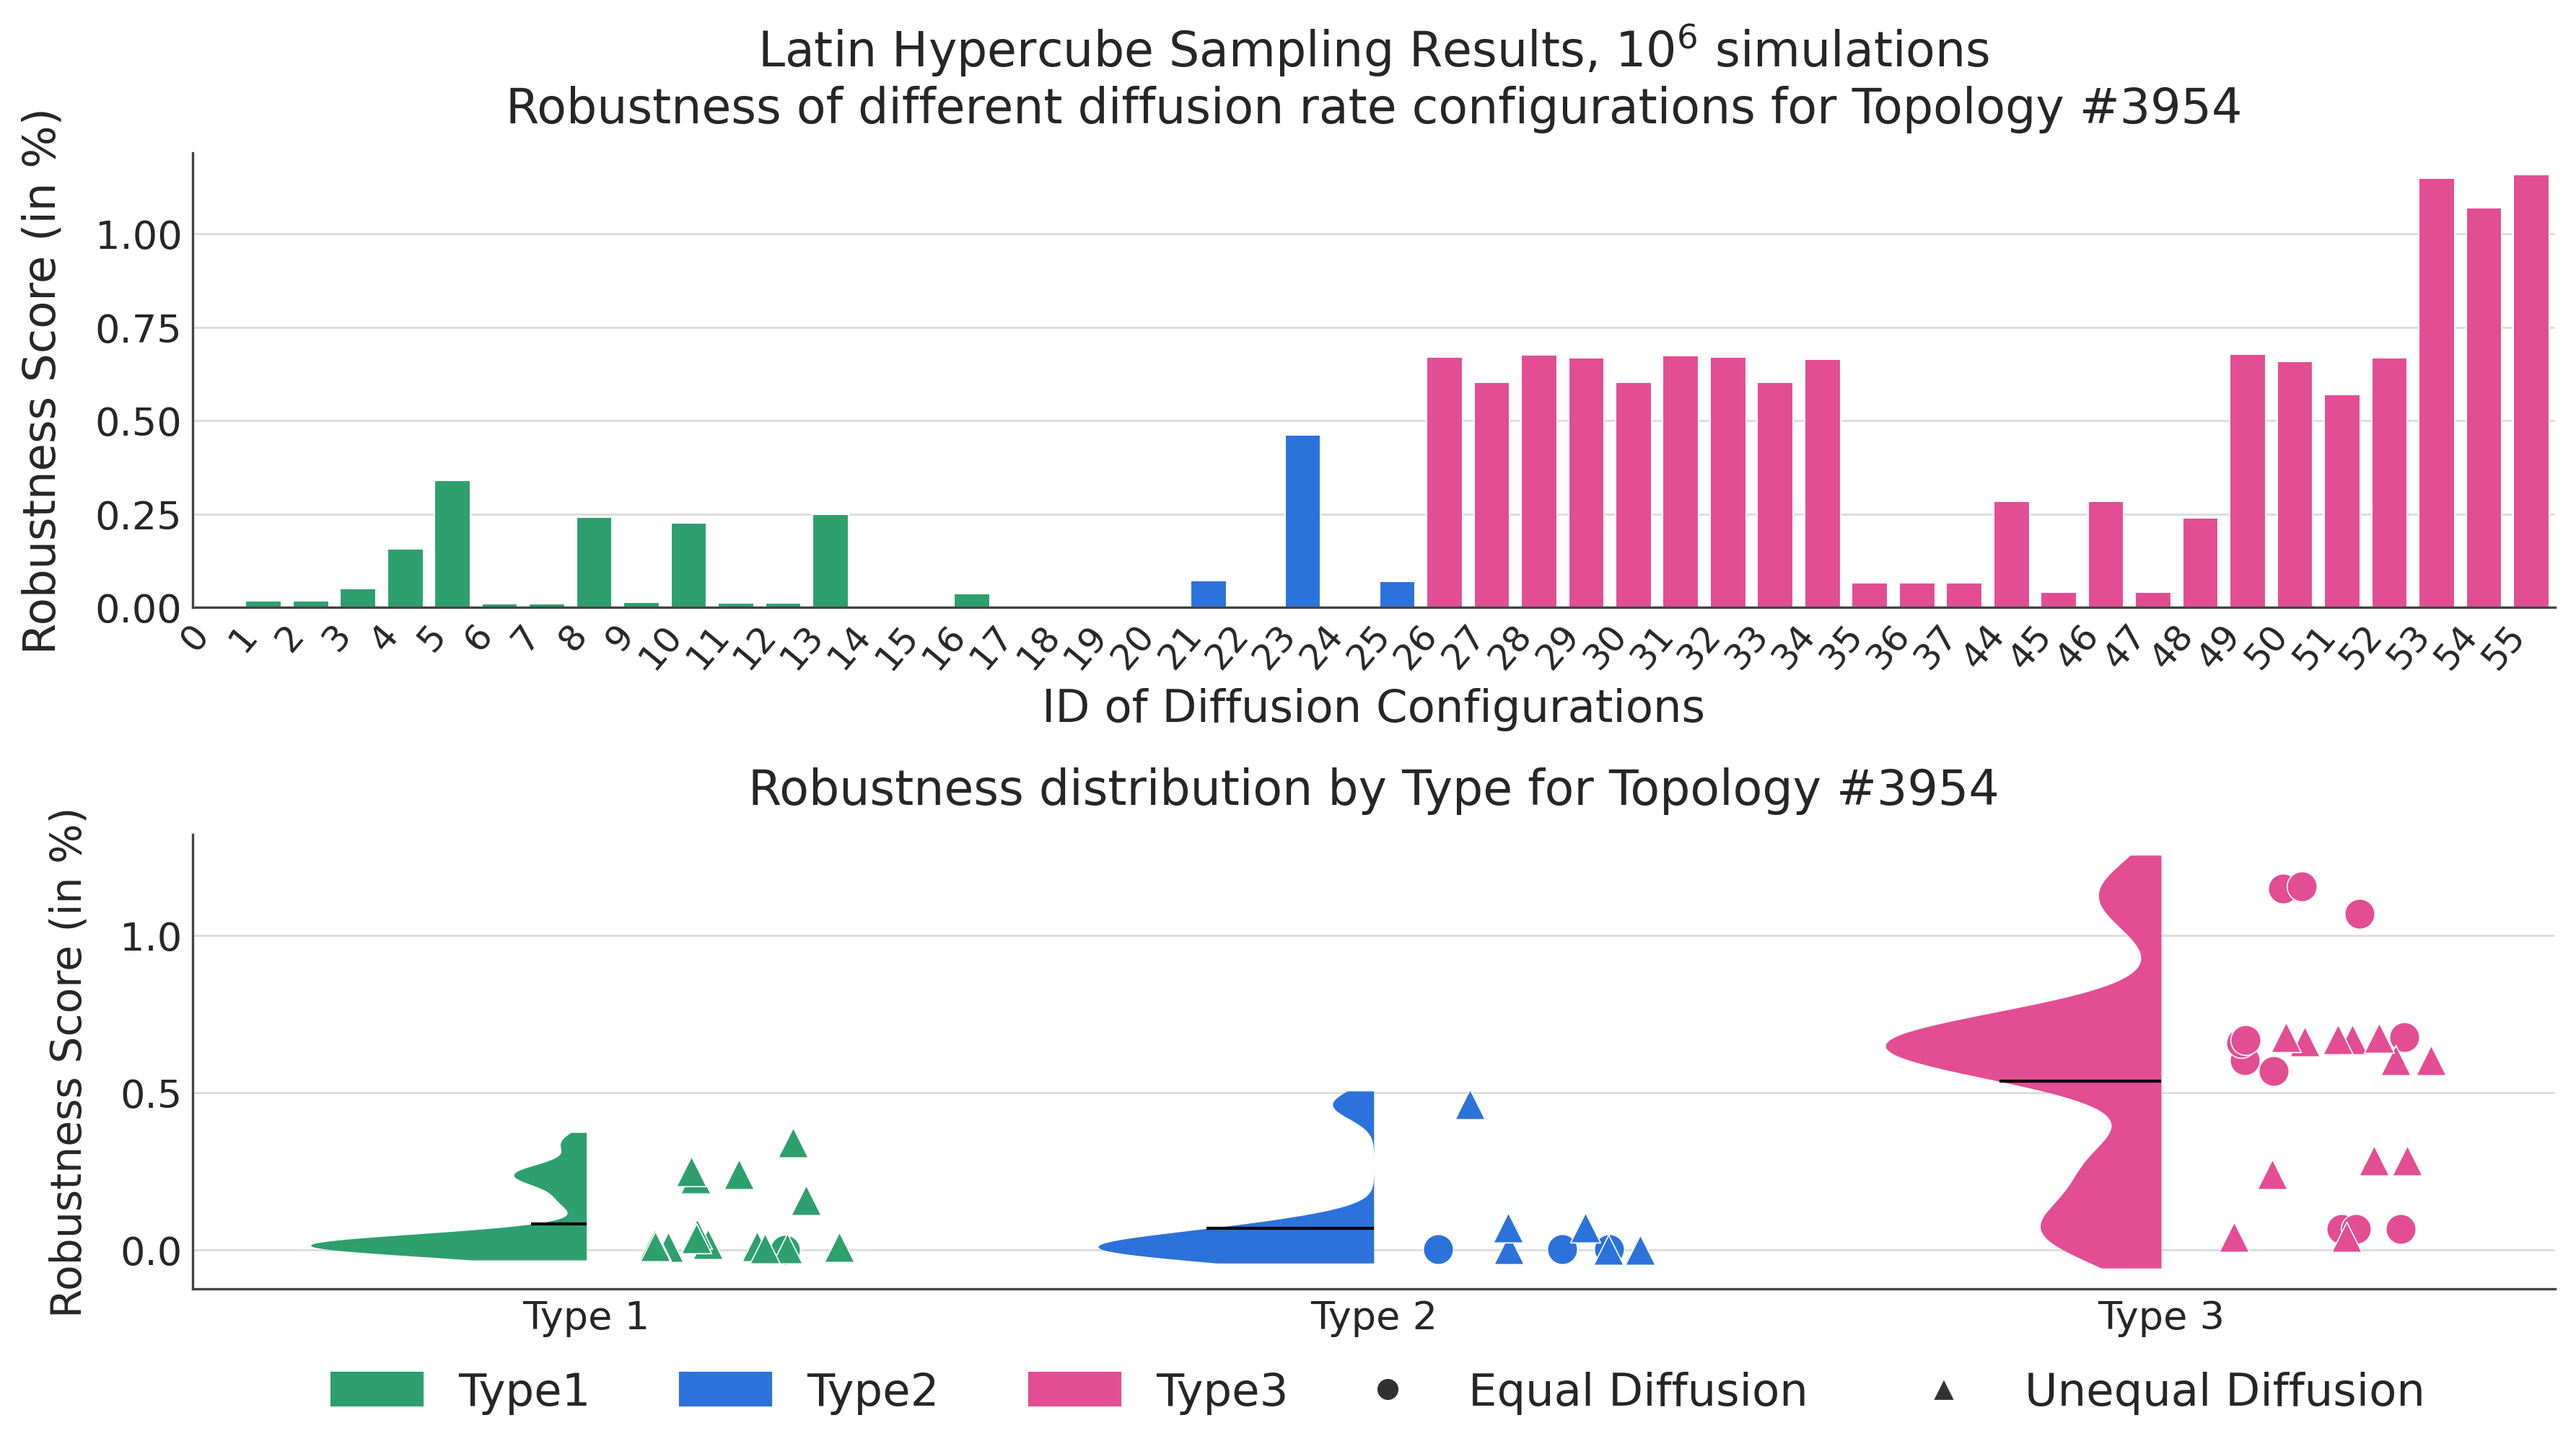
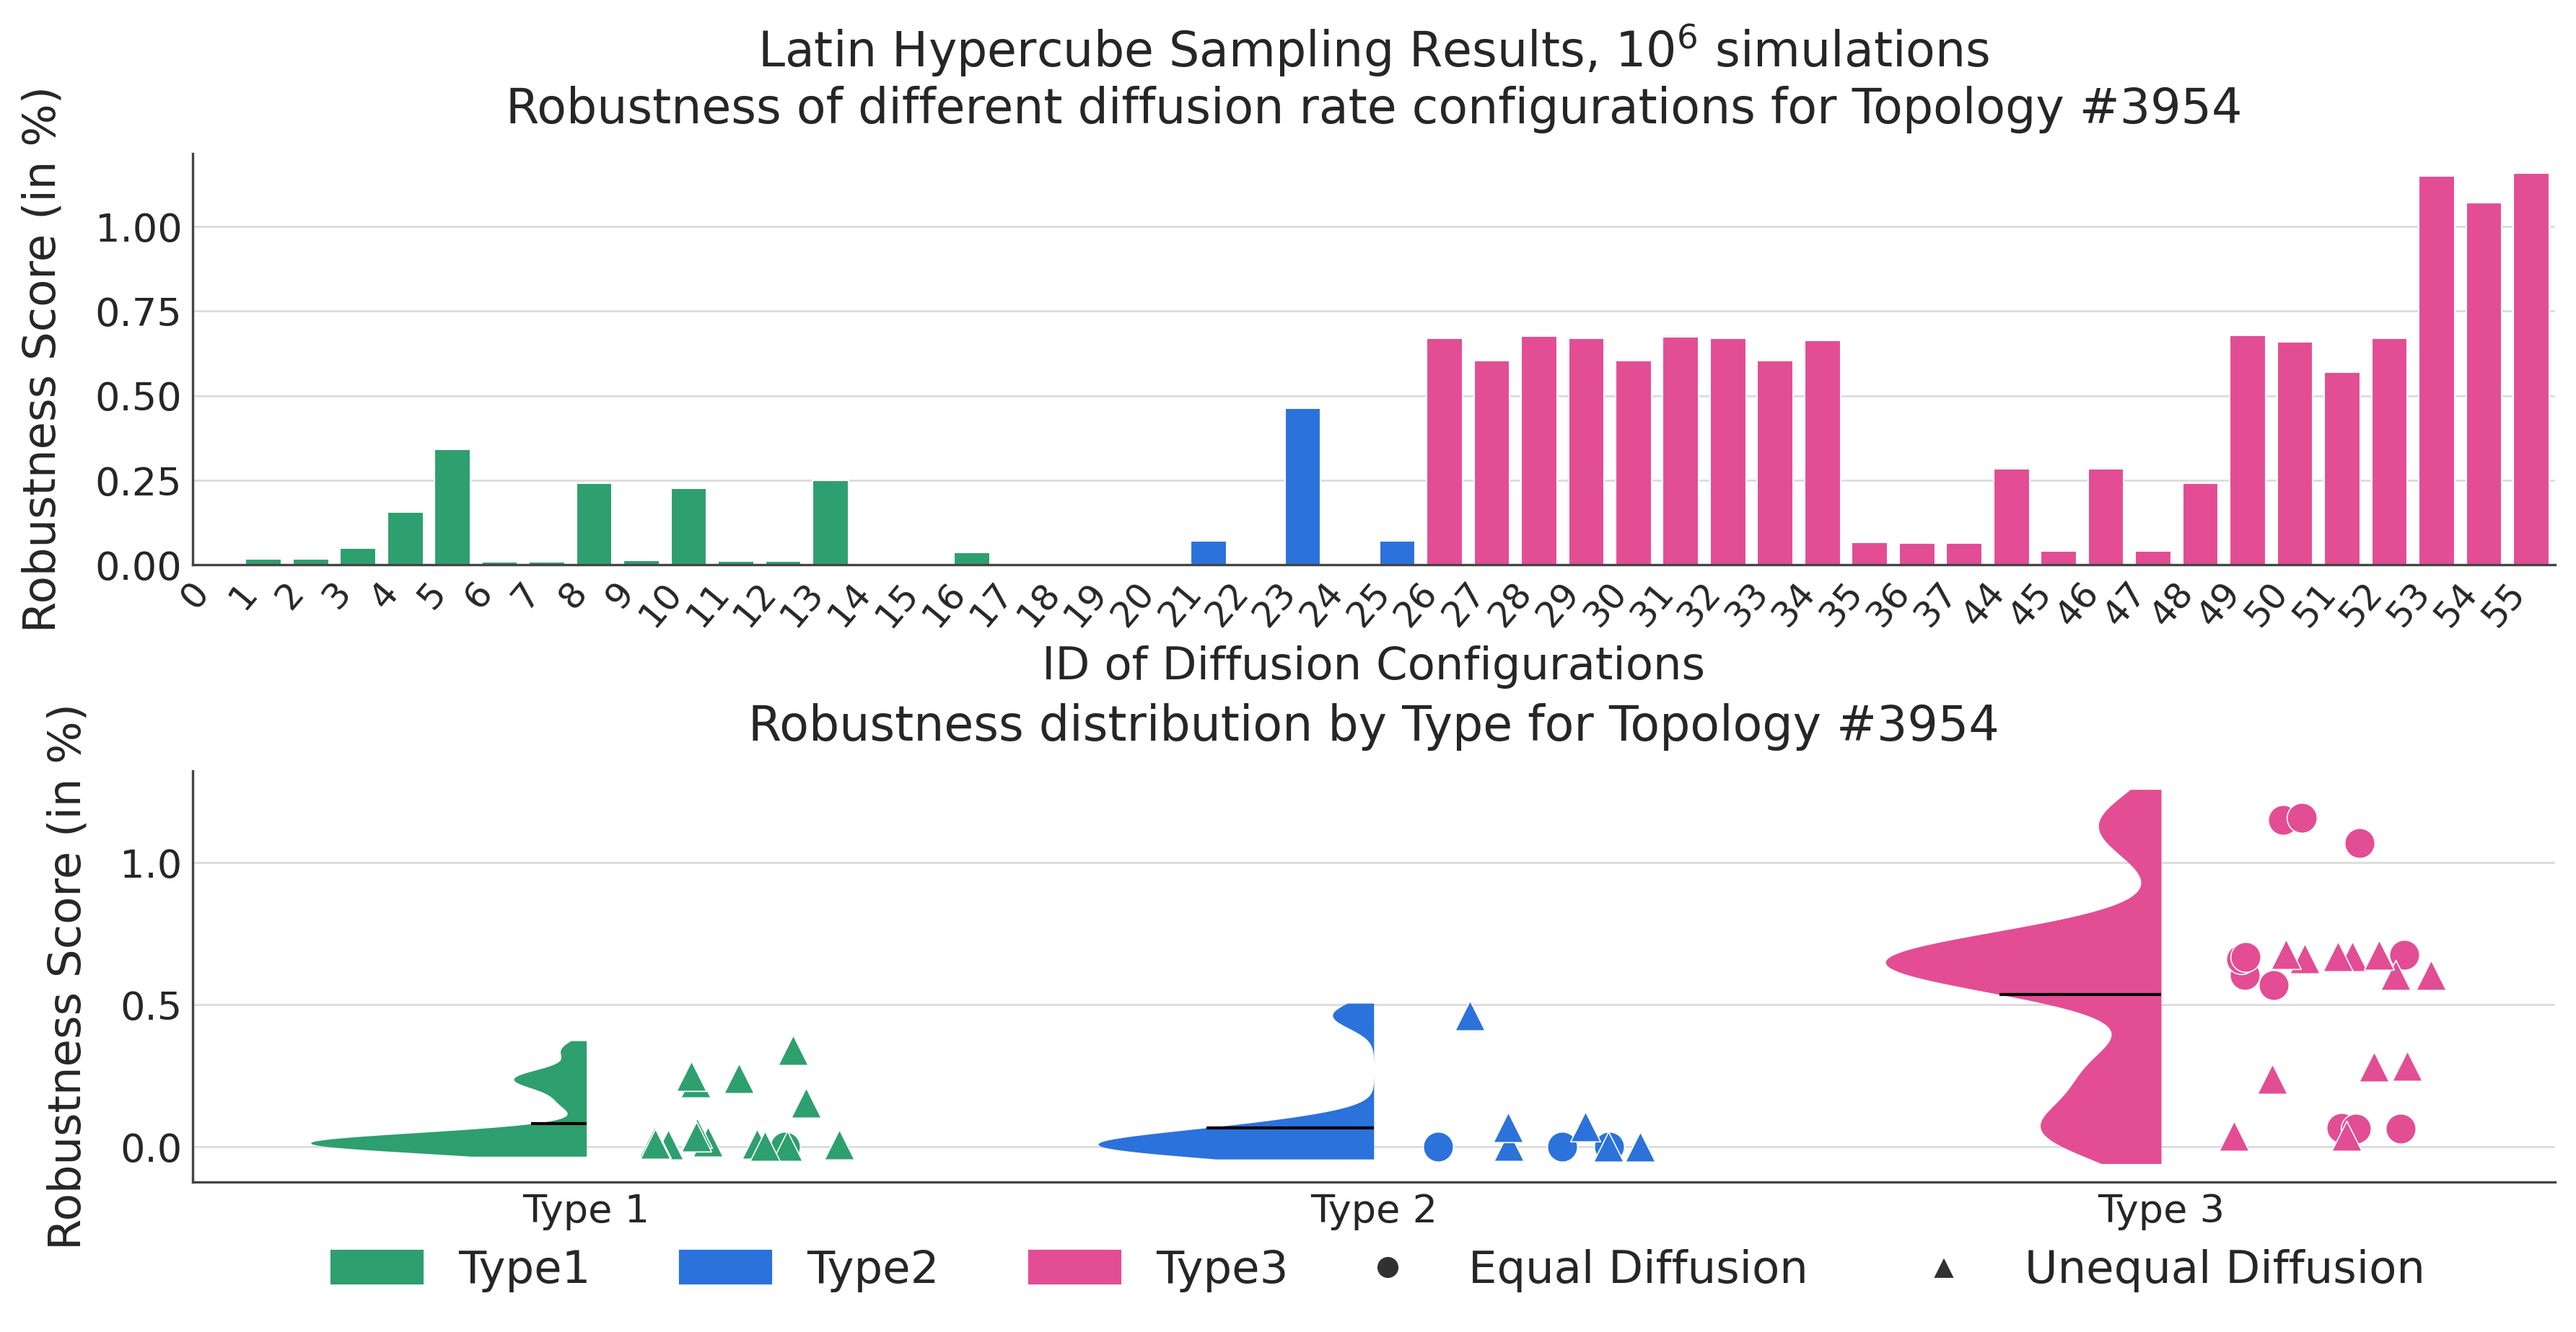
hhhhh

diff --git a/TopologyRanking/Topology3954/lhs_plots_results_3954.py b/TopologyRanking/Topology3954/lhs_plots_results_3954.py
@@ -42,13 +42,6 @@ def save(fig, name):
     plt.close(fig)
     print(f"Saved to plots/{name}.png")
 
-
-# def load_data():
-#     df = pd.read_csv(CSV)
-#     df["topology"]    = df["config_name"].str.extract(r"FINAL_LHS_3954_([A-Z]+)_")
-#     df["turing_type"] = df["config_name"].str.extract(r"(Type[123])")
-#     return df
-
 def load_data():
     df = pd.read_csv(CSV)
     df = df[~df["config_name"].str.contains('Lab', na=False)]
@@ -97,7 +90,7 @@ def fig4_diego_vs_shaberi(df):
 def fig_combined_overview_and_raincloud(df):
     df = df.copy()
     #fig, (ax1, ax2) = plt.subplots(2, 1, figsize=(13,8.5), gridspec_kw={"height_ratios": [1, 1]})
-    fig, (ax1, ax2) = plt.subplots(2, 1, figsize=(12.4,6.4))
+    fig, (ax1, ax2) = plt.subplots(2, 1, figsize=(12.4,5.8))
 
     # PANEL 1: OVERVIEW BAR CHART (ax1)
     colors = df["turing_type"].map(TYPE_COLORS).fillna("#aaaaaa")
@@ -154,7 +147,7 @@ def fig_combined_overview_and_raincloud(df):
 
     ax2.set_xticks(range(len(types)))
     ax2.set_xticklabels(labels, fontsize=13)
-    ax2.set_ylabel("Robustness Score (in %)", fontsize=14, labelpad=10)
+    ax2.set_ylabel("Robustness Score (in %)", fontsize=15, labelpad=10)
     ax2.tick_params(axis='y', labelsize=13)
     ax2.set_title("Robustness distribution by Type for Topology #3954",fontsize=16,loc="center",pad=10,)
     ax2.xaxis.grid(False)
@@ -179,165 +172,3 @@ def fig_combined_overview_and_raincloud(df):
 df = load_data()
 # fig4_diego_vs_shaberi(df)
 fig_combined_overview_and_raincloud(df) 
-
-
-
-
-
-
-##################################### FIGURE 1: Overview bar chart #####################################
-
-# def fig1_overview(df):
-#     fig, ax = plt.subplots(figsize=(14, 6))
-#     #colors = df["turing_type_I"].map(TYPE_COLORS).fillna("#aaaaaa")
-#     ax.bar(
-#         range(len(df)),
-#         df["rob_shaberi_type_I"], # rob_shaberi_total
-#         #color=colors,
-#         edgecolor="white",
-#         linewidth=0.5,
-#         width=0.75,
-#     )
-#     # x-axis labels: strip prefix and "Type" variations
-#     ax.set_xticks(range(len(df)))
-#     ax.set_xticklabels(
-#         # The | means OR, and \d* means match zero or more digits (like 1, 2, 3)
-#         df["config_name"].str.replace(r"FINAL_LHS_3954_|Type\d*_", "", regex=True),
-#         rotation=55,
-#         ha="right",
-#         fontsize=8,
-#     )
-
-#     ax.set_ylabel("Robustness Score (in %)", fontsize=11)
-#     ax.set_title(
-#         "Robustness of Topologies for #3954\n(Latin Hypercube Sampling, 1 million simulations)",
-#         fontsize=12, loc="left", pad=10,
-#     )
-#     ax.spines[["top", "right"]].set_visible(False)
-#     # fix 1 – remove extra left padding
-#     ax.set_xlim(-0.5, len(df) - 0.5)
-#     # fix 2 – horizontal grid lines only
-#     ax.xaxis.grid(False)
-#     ax.yaxis.grid(True)
-
-#     # legend
-#     handles = [mpatches.Patch(color=c, label=t) for t, c in TYPE_COLORS.items()]
-#     #ax.legend(handles=handles, title="Turing Type", frameon=False)
-#     ax.legend(handles=handles, title="Turing Type", frameon=False, loc="upper center", bbox_to_anchor=(0.5, -0.4), ncol=3)
-
-#     fig.tight_layout()
-#     save(fig, "testttt_3954_lhs_fig1_overview_bar_detail")
-
-
-
-##################################### FIGURE 2: Scatter of Type 1 to Type 3 #####################################
-
-# def fig2_dotplot(df):
-#     random.seed(42)
-#     fig, ax = plt.subplots(figsize=(7, 4))
-#     types = ["Type1", "Type2", "Type3"]
-#     for i, t in enumerate(types):
-#         subset = df[df["turing_type"] == t]
-#         for _, row in subset.iterrows():
-#             marker = "^" if "Unequal" in row["config_name"] else "o"
-#             jitter = i + random.uniform(-0.2, 0.2)
-#             ax.scatter(
-#                 jitter,
-#                 row["rob_shaberi_total"],
-#                 color=TYPE_COLORS[t],
-#                 marker=marker,
-#                 s=80,
-#                 edgecolors="white",
-#                 linewidths=0.5,
-#                 zorder=3,
-#             )
-
-#     ax.set_xticks([0, 1, 2])
-#     ax.set_xticklabels(["Type 1", "Type 2", "Type 3"], fontsize=11)
-#     ax.set_ylabel("Robustness Score (in %, Shaberi Method)", fontsize=11)
-#     ax.set_title(
-#         "Robustness Scores by Turing Type for #3954\n(Latin Hypercube Sampling, 1 million simulations)",
-#         fontsize=12, loc="left", pad=10,
-#     )
-#     ax.xaxis.grid(False)
-#     ax.set_xlim(-0.5, 2.5)
-
-#     handles = [
-#         mlines.Line2D([], [], color="#313131", marker="o", linestyle="None", markersize=7, markeredgecolor="white", label="Equal"),
-#         mlines.Line2D([], [], color="#313131", marker="^", linestyle="None", markersize=7, markeredgecolor="white", label="Unequal"),
-#     ]
-
-#     ax.legend(handles=handles, title="Diffusion", frameon=False, loc="center right", bbox_to_anchor=(1.3, 0.5), ncol=1)
-#     fig.tight_layout()
-#     save(fig, "new_3954_lhs_fig2_dotplot")
-
-
-# def fig2_raincloud(df):
-#     random.seed(42)
-#     types  = ["Type1", "Type2", "Type3"]
-#     labels = ["Type 1", "Type 2", "Type 3"]
-#     fig, ax = plt.subplots(figsize=(10, 6))
-
-#     for i, (t, label) in enumerate(zip(types, labels)):
-#         subset = df[df["turing_type"] == t]["rob_shaberi_total"].dropna().values
-
-#         if len(subset) < 2:
-#             continue
-
-#         color = TYPE_COLORS[t]
-
-#         # ── Half violin (left side) ───────────────────────────────────────────
-#         #kde    = gaussian_kde(subset, bw_method=0.4)
-#         kde    = gaussian_kde(subset, bw_method=0.3)
-#         #y_range = np.linspace(subset.min(), subset.max(), 200)
-#         y_range = np.linspace(subset.min() - subset.std()*0.2, subset.max() + subset.std()*0.2, 200)
-#         kde_vals = kde(y_range)
-#         kde_vals = kde_vals / kde_vals.max() * 0.35  # normalise width
-
-#         ax.fill_betweenx(y_range, i - kde_vals, i, color=color, alpha=1.0, linewidth=0)
-
-#         # ── Mean line ─────────────────────────────────────────────────────────
-
-#         mean_val     = subset.mean()
-#         kde_at_mean  = kde(mean_val)[0]
-#         kde_at_mean  = kde_at_mean / kde_vals.max() * 0.35  # same normalisation as the cloud
-        
-#         ax.hlines(subset.mean(), i - 0.35, i, color="white", linewidth=1.5, zorder=4)
-#         #ax.hlines(subset.mean(), i - 0.33, i, color="black", linewidth=1.5, zorder=4)
-
-#         # ── Jittered dots (right side) ────────────────────────────────────────
-#         for val in subset:
-#             jitter = i + random.uniform(0.08, 0.35)
-#             marker = "^" if any(
-#                 "Unequal" in row["config_name"]
-#                 for _, row in df[(df["turing_type"] == t) &
-#                                  (df["rob_shaberi_total"] == val)].iterrows()
-#             ) else "o"
-#             ax.scatter(jitter, val, color=color, marker=marker, s=95, edgecolors="white", linewidths=0.4, zorder=3)
-
-#     ax.set_xticks(range(len(types)))
-#     ax.set_xticklabels(labels, fontsize=11)
-#     ax.set_ylabel("Robustness Score (rob_shaberi_total)", fontsize=12)
-#     ax.set_title(
-#         "Robustness distribution by Turing Type for #3954\n"
-#         "(Latin Hypercube Sampling, 1 million simulations)",
-#         fontsize=12.5, loc="left", pad=10,
-#     )
-#     ax.xaxis.grid(False)
-#     #ax.yaxis.grid(False)
-#     ax.set_xlim(-0.5, len(types) - 0.5)
-
-#     # Legend
-#     handles = [
-#         mlines.Line2D([], [], color="#313131", marker="o", linestyle="None", markersize=8, markeredgecolor="white", label="Equal"),
-#         mlines.Line2D([], [], color="#313131", marker="^", linestyle="None", markersize=8, markeredgecolor="white", label="Unequal"),
-#     ]
-
-#     ax.legend(handles=handles, title="Diffusion", frameon=False, loc="center right", bbox_to_anchor=(1.2, 0.5), ncol=1)
-
-#     fig.tight_layout()
-#     save(fig, "new_3954_lhs_fig2_raincloud")
-
-# fig1_overview(df)
-# fig2_dotplot(df)
-# fig2_raincloud(df)

diff --git a/TopologyRanking/Topology3954/rmt_plots_results_3954.py b/TopologyRanking/Topology3954/rmt_plots_results_3954.py
@@ -50,7 +50,7 @@ def complete_robustness_figure(df, sigma_val):
     import matplotlib.ticker as mticker
 
     random.seed(42)
-    fig = plt.figure(figsize=(12.4, 7))
+    fig = plt.figure(figsize=(12.4, 6.6))
     gs = gridspec.GridSpec(2, 2, figure=fig, height_ratios=[1, 1])
     ax_stable = fig.add_subplot(gs[0, :])
     ax_avg = fig.add_subplot(gs[1, 0])
@@ -157,7 +157,7 @@ def complete_robustness_figure(df, sigma_val):
         mlines.Line2D([], [], color='#313131', marker='^', linestyle='None',markersize=8, markeredgecolor='white', label='Unequal Diffusion',),]
 
     fig.legend(handles=global_handles, frameon=False, loc='lower center', bbox_to_anchor=(0.5, -0.01), ncol=6, fontsize=13, handlelength=2.4, columnspacing=1.6,)
-    fig.suptitle('Random Matrix Theory Results, $5 \\times 10^5$ simulations\n' 'Robustness of different diffusion rate configurations for Topology #3954', fontsize=16, y=0.99,)
+    fig.suptitle('Random Matrix Theory Results, $5 \\times 10^5$ simulations, Topology #3954', fontsize=16, y=0.96,)
     fig.subplots_adjust(left=0.07, right=0.93, top=0.86, bottom=0.12, hspace=0.4, wspace=0.2,) # hspace is gap between Panel A and Panels B/C,  wspace is gap between Panels B and C
     save(fig, 'final_3954_rmt_overview_sigma')
 

diff --git a/TopologyRanking/Topology1754/lhs_plots_results_1754.py b/TopologyRanking/Topology1754/lhs_plots_results_1754.py
@@ -93,7 +93,7 @@ def fig4_diego_vs_shaberi(df):
 def fig_combined_overview_and_raincloud(df):
     df = df.copy()
     #fig, (ax1, ax2) = plt.subplots(2, 1, figsize=(13,8.5), gridspec_kw={"height_ratios": [1, 1]})
-    fig, (ax1, ax2) = plt.subplots(2, 1, figsize=(12.4,6.8))
+    fig, (ax1, ax2) = plt.subplots(2, 1, figsize=(12.4,6.2))
 
     # PANEL 1: OVERVIEW BAR CHART (ax1)
     colors = df["turing_type"].map(TYPE_COLORS).fillna("#aaaaaa")
